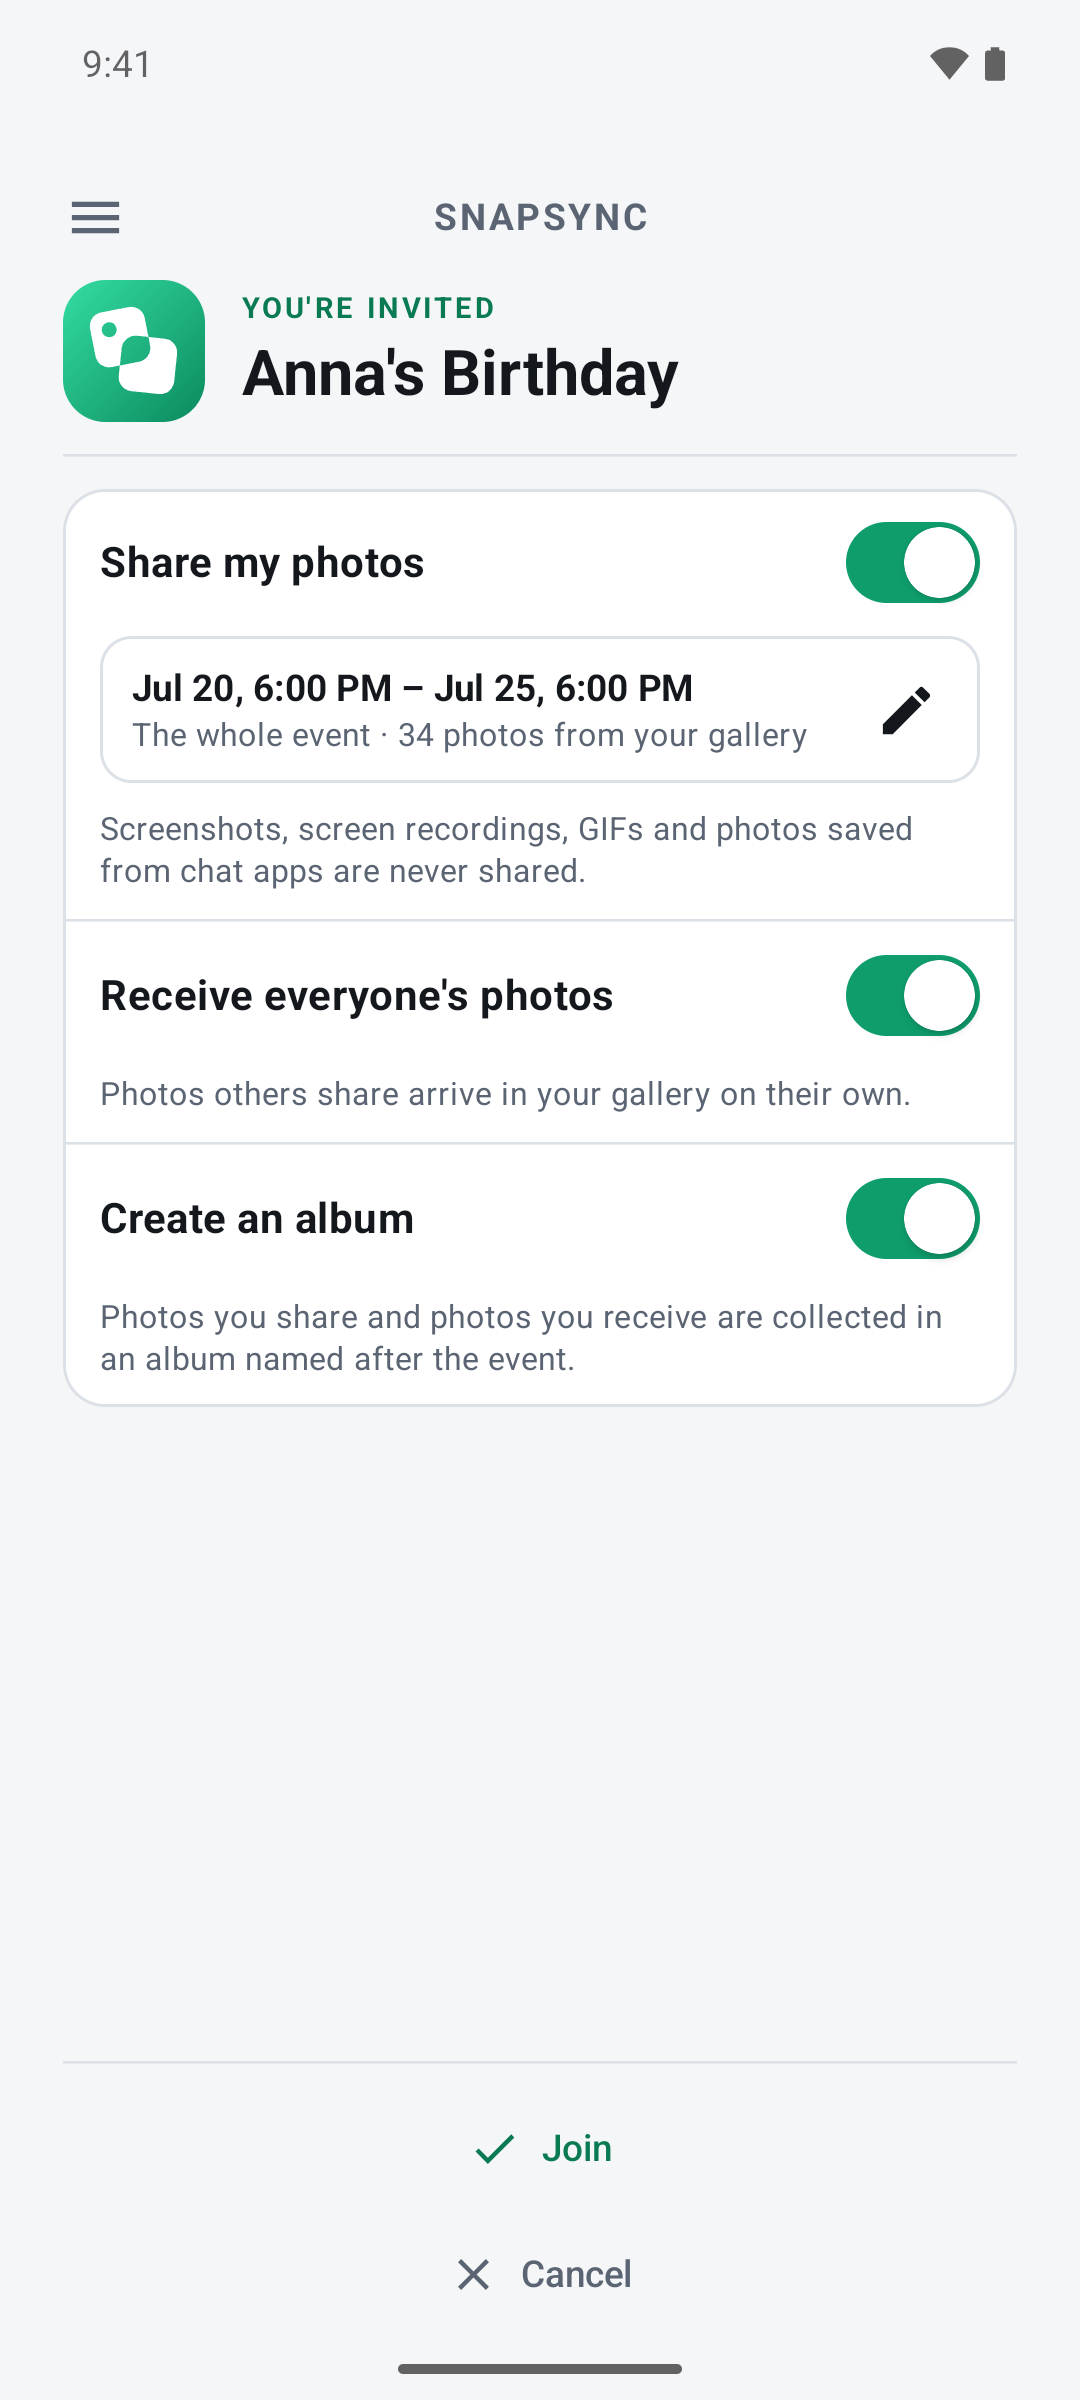
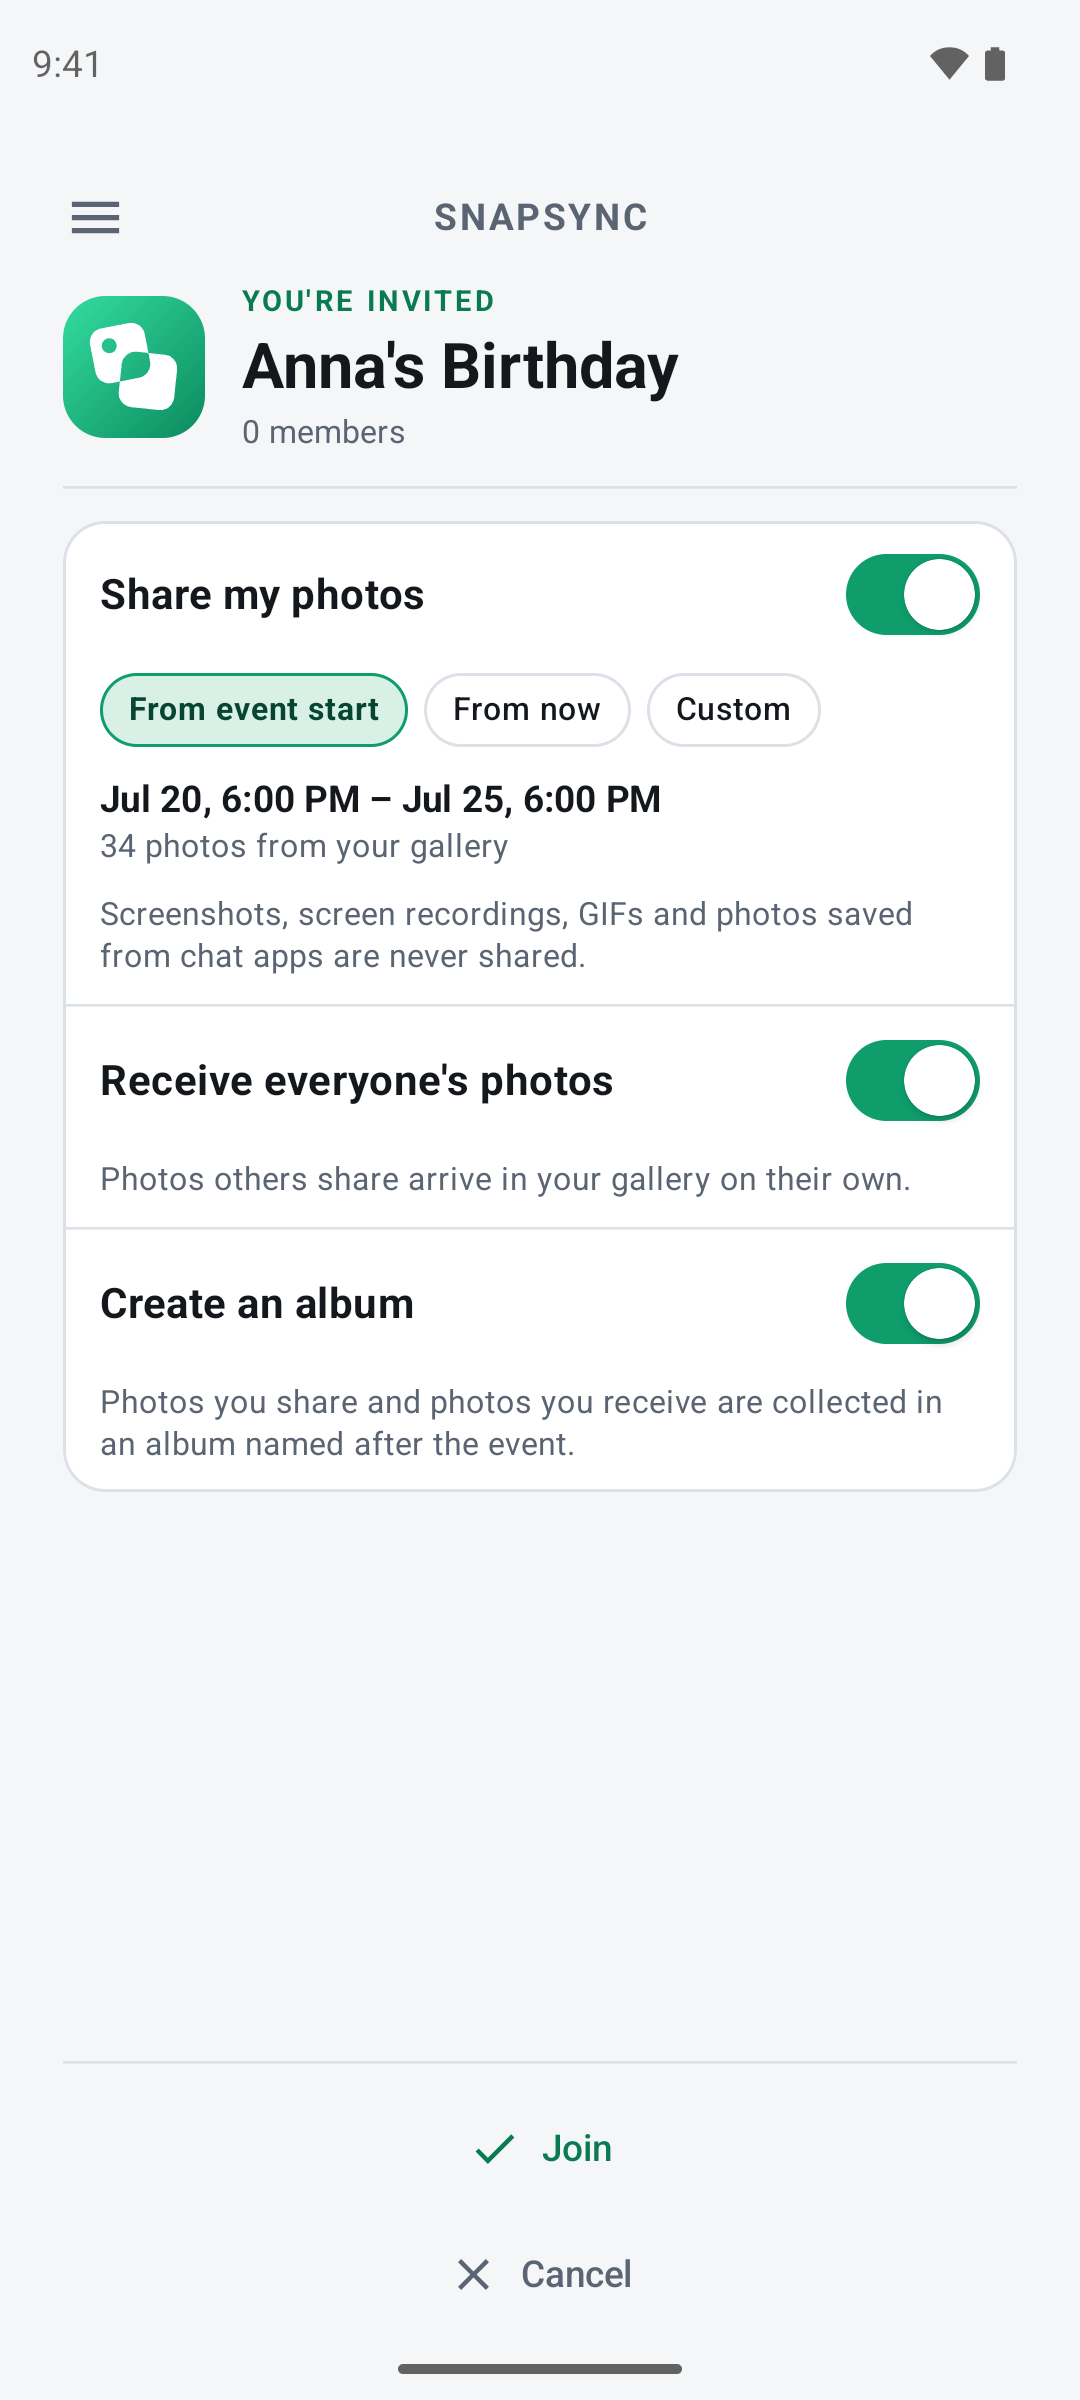
internal(screenshots): the join screen's range chips, the create note and the member count, on both stores
Captured by screenshots.yml run 38321038137 and looked at, all twelve: joining shows From event start ·
From now · Custom with the range and count beneath; create carries the reworded window note; in_sync gains
the member count back-dated-events added. No system notification in any raw.

diff --git a/openspec/changes/flexible-share-range/tasks.md b/openspec/changes/flexible-share-range/tasks.md
@@ -34,7 +34,7 @@
 - [x] 5.3 The outside-reach line under the count on the join screen and in settings; verify `:ui:screens` tests for before, after, both, and none
 - [x] 5.4 Strings EN + DE per design D6: add `range_event_start`, `share_outside_before/after/both` and `calendar_event_day`; change `range_custom` (DE "Anpassen"), `share_detail_counting`/`share_detail_count` (no preset prefix), `access_range_body`, `create_window_note` and `share_range_change`; drop `range_whole_event`, `share_range_whole_event` and `share_range_from_now`; verify `./gradlew build` (HardCodedUiText, unused resources) passes
 - [ ] 5.5 Review every state in the world harness through the `ui-harness` driver (join screen with each chip, a custom range before and after the event, the calendar with marked event days, settings), in light and dark; verify by reading back `/phone.png` for each
-- [ ] 5.6 Refresh the marketing screenshots only if a `Shots.kt` state shows the join screen; verify `ShotsTest` in `./gradlew build`
+- [x] 5.6 Refresh the marketing screenshots only if a `Shots.kt` state shows the join screen; verify `ShotsTest` in `./gradlew build`
 
 ## 6. Integration and outside the app
 
